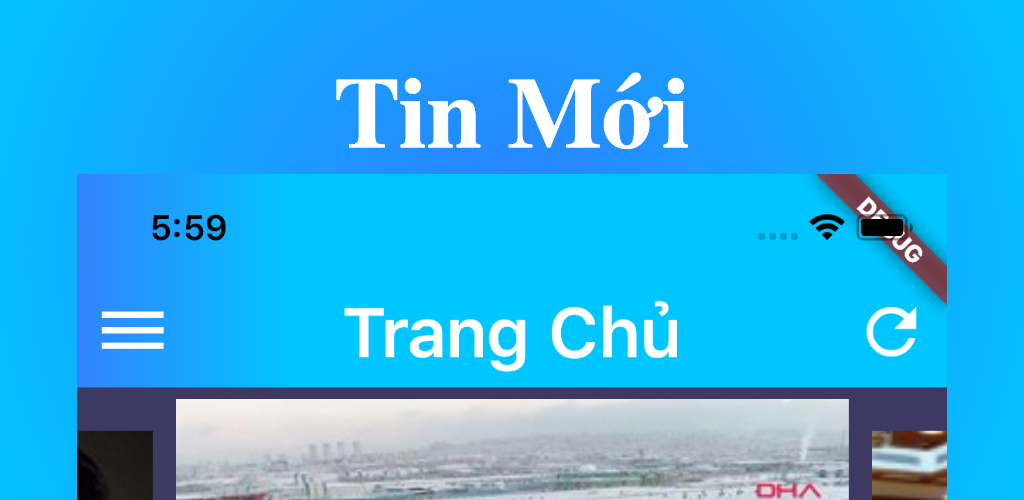
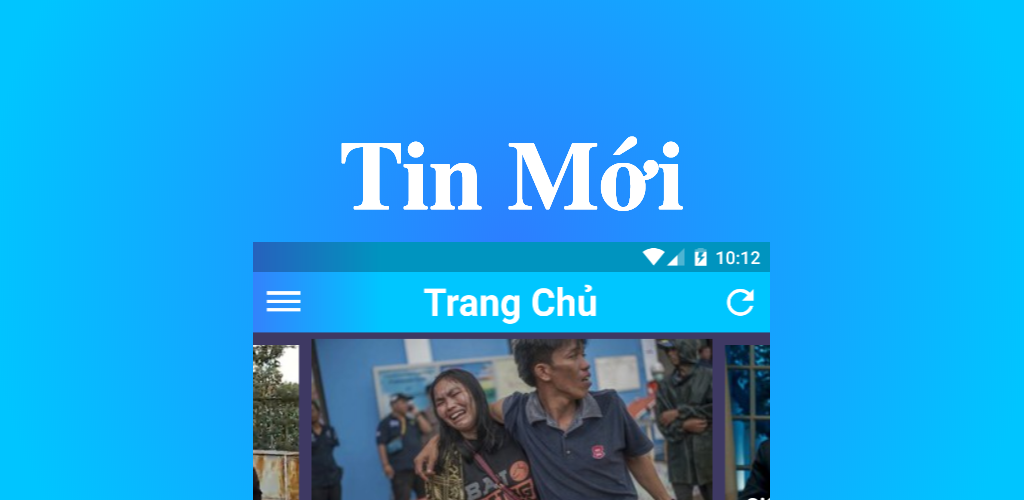
[Fix] Improve source news page

diff --git a/lib/pages/NewsSourcePage.dart b/lib/pages/NewsSourcePage.dart
@@ -28,9 +28,9 @@ class _NewsSourcePageState extends State<NewsSourcePage> {
     return new Scaffold(
       key: _mainKey,
       backgroundColor: AppColors.commonBackgroundColor,
-      appBar: new PreferredSize(
+      appBar: PreferredSize(
         preferredSize: const Size.fromHeight(48.0),
-        child: new GradientAppBar(
+        child: GradientAppBar(
           'Nguồn Tin',
           Icon(
             Icons.dehaze,
@@ -48,58 +48,54 @@ class _NewsSourcePageState extends State<NewsSourcePage> {
           }
         ),
       ),
-      drawer: new MainDrawer(),
-      body: new GridView.builder(
+      drawer: MainDrawer(),
+      body: GridView.builder(
         gridDelegate: const SliverGridDelegateWithFixedCrossAxisCount(
           crossAxisCount: 3, mainAxisSpacing: 25.0),
         padding: const EdgeInsets.all(10.0),
         itemCount: 12,
         itemBuilder: (BuildContext context, int index) {
-          return new GridTile(
-            footer: new Row(
-                mainAxisAlignment: MainAxisAlignment.center,
-                children: <Widget>[
-                  new Flexible(
-                    child: new SizedBox(
-                      height: 16.0,
-                      width: 100.0,
-                      child: new Text(
-                        sources[index]['name'],
-                        maxLines: 2,
-                        textAlign: TextAlign.center,
-                        overflow: TextOverflow.ellipsis,
-                        style: TextStyle(
-                          color: AppColors.white
-                        )
-                      ),
-                    ),
-                  )
-                ]),
-            child: new Container(
-              padding: const EdgeInsets.only(bottom: 5.0),
-              child: new FlatButton(
-                child: new Column(
-                  crossAxisAlignment: CrossAxisAlignment.center,
-                  children: [
-                    new SizedBox(
-                      child: new Container(
-                        decoration: BoxDecoration(
-                          color: AppColors.white
-                        ),
-                        child: Center(
-                          child: Image.asset(
-                            sources[index]['image']
-                          )
-                        )
+          return GridTile(
+            footer: Row(
+              mainAxisAlignment: MainAxisAlignment.center,
+              children: <Widget>[
+                Flexible(
+                  child: SizedBox(
+                    height: 16.0,
+                    width: 100.0,
+                    child: Text(
+                      sources[index]['name'],
+                      maxLines: 2,
+                      textAlign: TextAlign.center,
+                      overflow: TextOverflow.ellipsis,
+                      style: TextStyle(
+                        color: AppColors.white
                       )
+                    ),
+                  ),
+                )
+            ]),
+            child: Container(
+              padding: const EdgeInsets.only(bottom: 32.0),
+              child: FlatButton(
+                child: Container(
+                  decoration: BoxDecoration(
+                    color: AppColors.white
+                  ),
+                  child: Center(
+                    child: Image.asset(
+                      sources[index]['image'],
+                      fit: BoxFit.cover,
                     )
-                  ]
+                  )
                 ),
                 onPressed: () {
-                  pushByName('/subview', context, { 'view': {
-                    'url': sources[index]['url'],
-                    'title': sources[index]['name']
-                  } });
+                  pushByName('/subview', context, {
+                    'view': {
+                      'url': sources[index]['url'],
+                      'title': sources[index]['name']
+                    }
+                  });
                 },
               ),
             ),

diff --git a/lib/common/components/MiniNewsfeed.dart b/lib/common/components/MiniNewsfeed.dart
@@ -26,26 +26,29 @@ class MiniNewsfeed extends StatelessWidget {
           padding: new EdgeInsets.all(10.0),
           child: new Column(
             children: [
-              new Row(
-                children: [
-                  new Column(
-                    children: <Widget>[
-                      new Padding(
-                        padding:
-                            new EdgeInsets.only(top: 8.0),
-                        child: new SizedBox(
-                          height: 100.0,
-                          width: 100.0,
-                          child: new Image.network(
-                            item['image'],
-                            fit: BoxFit.cover,
+              new GestureDetector(
+                onTap: () {
+                  onTap != null && onTap(item);
+                },
+                child: new Row(
+                  children: [
+                    new Column(
+                      children: <Widget>[
+                        new Padding(
+                          padding:
+                              new EdgeInsets.only(top: 8.0),
+                          child: new SizedBox(
+                            height: 100.0,
+                            width: 100.0,
+                            child: new Image.network(
+                              item['image'],
+                              fit: BoxFit.cover,
+                            ),
                           ),
-                        ),
-                      )
-                    ]
-                  ),
-                  new Expanded(
-                    child: new GestureDetector(
+                        )
+                      ]
+                    ),
+                    new Expanded(
                       child: new Column(
                         mainAxisAlignment: MainAxisAlignment.start,
                         crossAxisAlignment:
@@ -89,13 +92,10 @@ class MiniNewsfeed extends StatelessWidget {
                             ),
                           )
                         ],
-                      ),
-                      onTap: () {
-                        onTap != null && onTap(item);
-                      },
-                    ),
-                  )
-                ]
+                      )
+                    )
+                  ]
+                )
               )
             ]
           )

diff --git a/lib/modules/category/components/TopicDetailView.dart b/lib/modules/category/components/TopicDetailView.dart
@@ -65,7 +65,7 @@ class _TopicDetailViewState extends State<TopicDetailView> {
         shape: BoxShape.circle,
         border: Border.all(color: Colors.white30),
       ),
-      margin: const EdgeInsets.only(top: 32.0, left: 16.0),
+      margin: const EdgeInsets.only(top: 20.0, left: 16.0),
       padding: const EdgeInsets.all(3.0),
       child: ClipOval(
         child: Image.network(widget.topic['image']),
@@ -84,19 +84,12 @@ class _TopicDetailViewState extends State<TopicDetailView> {
             style: TextStyle(
               color: Colors.white,
               fontWeight: FontWeight.bold,
-              fontSize: 30.0,
-            ),
-          ),
-          Text(
-            '',
-            style: TextStyle(
-              color: Colors.white.withOpacity(0.85),
-              fontWeight: FontWeight.w500,
+              fontSize: 26.0,
             ),
           ),
           Container(
             color: Colors.white.withOpacity(0.85),
-            margin: const EdgeInsets.symmetric(vertical: 16.0),
+            margin: const EdgeInsets.symmetric(vertical: 14.0),
             width: 225.0,
             height: 1.0,
           ),

diff --git a/lib/main.dart b/lib/main.dart
@@ -4,6 +4,7 @@ import 'package:flutter_redux/flutter_redux.dart';
 import 'package:redux/redux.dart';
 import 'package:cat_dog/common/store.dart';
 import 'package:cat_dog/common/state.dart';
+import 'package:cat_dog/styles/colors.dart';
 import 'package:cat_dog/presentation/platform_adaptive.dart';
 // PAGES
 import 'package:cat_dog/pages/HomePage.dart';
@@ -27,6 +28,8 @@ class App extends StatelessWidget {
       store: store,
       child: new MaterialApp(
         title: 'Tin Mới',
+        color: AppColors.commonBackgroundColor,
+        debugShowCheckedModeBanner: false,
         theme: defaultTargetPlatform == TargetPlatform.iOS
           ? kIOSTheme
           : kDefaultTheme,

diff --git a/lib/modules/category/components/SubNewsView.dart b/lib/modules/category/components/SubNewsView.dart
@@ -75,7 +75,6 @@ class _SubNewsViewState extends State<SubNewsView> {
       key: pageKey,
       loading: loading,
       component: new Container(
-        height: MediaQuery.of(context).size.height - 100,
         decoration: new BoxDecoration(color: AppColors.commonBackgroundColor),
         child: new NewsList(
           list: list,
